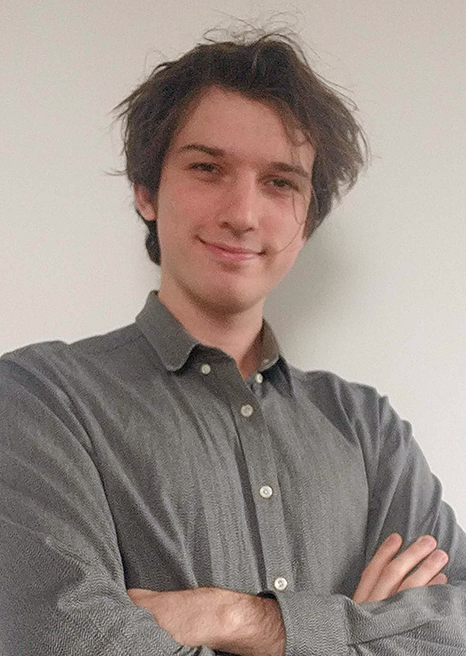
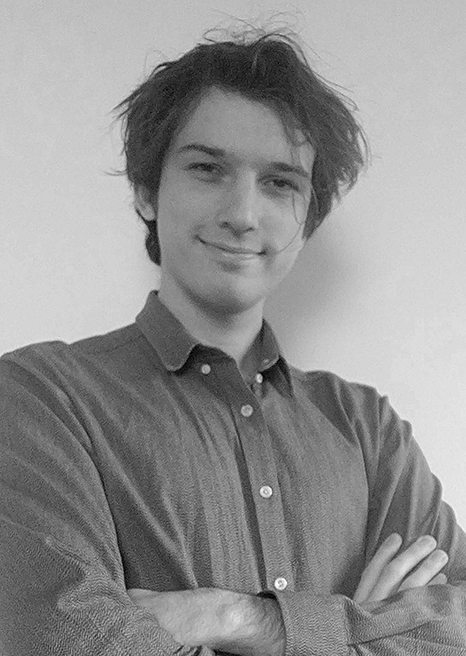
Update self portrait pic location and bg theming

Changed region(s): [[0.2704, 0.122, 0.691, 0.5793], [0.2704, 0.8841, 0.6309, 1.0], [0.7511, 0.7927, 0.9614, 0.9146]]

diff --git a/src/components/Global/Button.module.scss b/src/components/Global/Button.module.scss
@@ -12,8 +12,12 @@
   padding: 0.5rem;
   border-radius: 10px;
   box-shadow: 0px 2px 3px $ab-color-button-base-box-shadow;
-  transition: 0.2s;
+  transition: background-color 0.4s, transform 0.1s;
   font-size: 1.1rem;
+
+  &:active {
+    transform: scale(0.9, 0.9);
+  }
 }
 
 .white {
@@ -33,7 +37,7 @@
   color: $ab-color-button-primary-text;
   background-color: $ab-color-button-primary-bg;
   background-size: 400% 400%;
-  animation: primary-pulse 6s ease infinite;
+  animation: primary-pulse 4s ease infinite;
 }
 
 .animated:hover {
@@ -45,17 +49,13 @@
   background-color: $ab-color-button-primary-bg-active;
 }
 
-.button:active {
-  transform: scale(0.9, 0.9);
-}
-
 @keyframes primary-pulse {
   0%,
   100% {
-    background-color: $ab-color-button-primary-bg;
+    filter: hue-rotate(-10deg);
   }
   50% {
-    background-color: $ab-color-button-primary-bg-hue-shifted;
+    filter: hue-rotate(10deg);
   }
 }
 

diff --git a/src/components/MainPage/MainPage.module.scss b/src/components/MainPage/MainPage.module.scss
@@ -79,11 +79,7 @@ h6 {
 
 .infoParagraph {
   color: $ab-color-text-secondary-light-bg;
-  background-color: linear-gradient(
-    180deg,
-    $ab-color-body-bg 0%,
-    transparent 125%
-  );
+  background-color: $ab-color-body-bg;
   transition: background-color $ab-theme-transition-duration;
   max-width: 35em;
   min-width: 15em;
@@ -103,7 +99,7 @@ h6 {
 .splashImg {
   display: flex;
   width: 28%;
-  height: 138%;
+  height: 100%;
   min-height: 500px;
   max-height: 1000px;
   background-repeat: no-repeat;
@@ -112,6 +108,8 @@ h6 {
   background-color: $ab-color-body-bg;
   transition: background-color $ab-theme-transition-duration;
   position: absolute;
+  margin-top: 120px;
+  margin-inline-end: 105px;
 }
 
 .imageBg {
@@ -181,11 +179,6 @@ h6 {
 
   .content {
     font-size: 1rem;
-  }
-
-  .infoParagraph {
-    backdrop-filter: none;
-    -webkit-backdrop-filter: none;
   }
 
   h1 {

diff --git a/src/components/MainPage/SideBar.tsx b/src/components/MainPage/SideBar.tsx
@@ -14,7 +14,7 @@ export default function SideBar() {
       <div className={styles.navbar}>
         <div className={styles.wrapper}>
           <img
-            className={`${styles.pfp} ${styles.onlyOnMobile}`}
+            className={styles.pfp}
             src={`${process.env.PUBLIC_URL}/images/profilePhoto.png`}
             alt={"Profile"}
           />

diff --git a/src/components/MainPage/AboutMe/AboutMe.tsx b/src/components/MainPage/AboutMe/AboutMe.tsx
@@ -79,6 +79,7 @@ export default function AboutMe() {
 
   return (
     <div className={styles.paragraph} ref={containerRef}>
+      <h2>Software Engineer</h2>
       <p className={styles.infoParagraph}>
         I'm a dedicated and motivated software engineer, passionate about
         software development and design. I love learning new things and diving

diff --git a/src/components/MainPage/SideBar.module.scss b/src/components/MainPage/SideBar.module.scss
@@ -27,7 +27,7 @@
   display: flex;
   width: 100%;
   flex-direction: row;
-  margin: 20px 10px;
+  margin: 20px;
 }
 
 .bg {
@@ -37,12 +37,13 @@
 }
 
 .pfp {
-  width: 100px;
+  width: 90px;
   height: auto;
   object-fit: cover;
   position: relative;
   overflow: hidden;
   border-radius: 8px;
+  mix-blend-mode: exclusion;
 }
 
 .name {

diff --git a/src/index.css b/src/index.css
@@ -19,10 +19,10 @@ html {
 }
 
 ::-webkit-scrollbar-thumb {
-  background: var(--ab-color-text-primary-light-bg, #222);
+  background-color: var(--ab-color-text-primary-light-bg, #222);
   border-radius: 1ex;
 }
 
 ::-webkit-scrollbar-track {
-  background: var(--ab-color-body-bg);
+  background-color: var(--ab-color-body-bg, #e7e7e7);
 }

diff --git a/src/components/MainPage/MainPage.tsx b/src/components/MainPage/MainPage.tsx
@@ -44,7 +44,7 @@ export default function MainPage() {
       </div>
 
       <div className={styles.body}>
-        <SectionHeadline id="about" title="SOFTWARE ENGINEER " />
+        <SectionHeadline id="about" title="ALEX BELL" />
         <div className={styles.content}>
           <AboutMe />
           <p />
